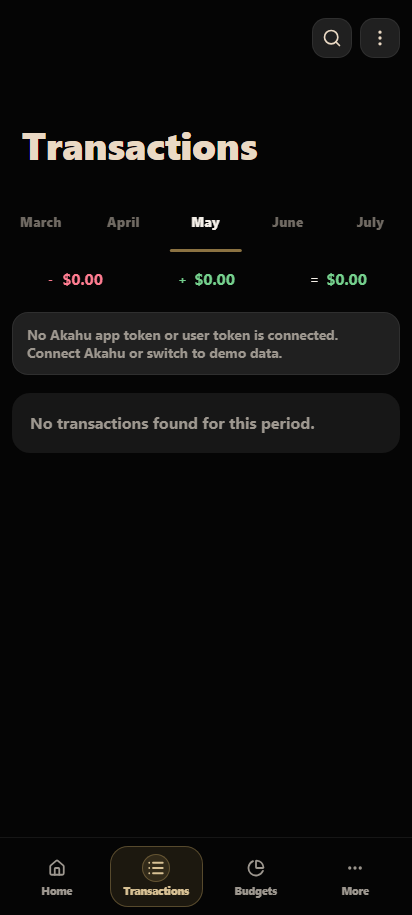
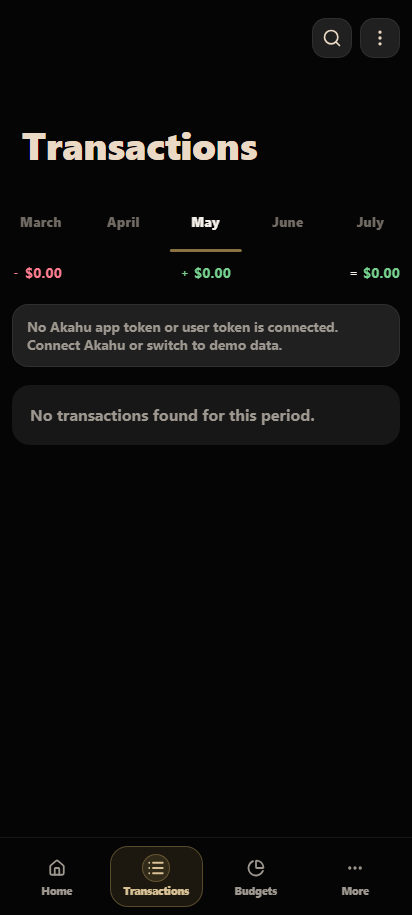
Updated transaction summary UI
Moved the summary up with margin: -4px 12px 0.
Changed mobile layout from equal grid columns to a content-sized flex row with space-between.
Reduced visual weight from 760 to 680.
Reduced the symbol size to 0.74rem.
Changed value size to clamp(0.8rem, 3.6vw, 0.9rem).
Added ellipsis fallback for long values so they do not collide or wrap badly.

Changed region(s): [[0.0291, 0.2754, 0.9612, 0.4896]]

diff --git a/app/globals.css b/app/globals.css
@@ -4560,9 +4560,12 @@ body {
   }
 
   .transaction-month-summary {
-    margin-inline: 12px;
-    gap: 8px;
-    min-height: 34px;
+    display: flex;
+    align-items: center;
+    justify-content: space-between;
+    margin: -4px 12px 0;
+    gap: clamp(6px, 2vw, 10px);
+    min-height: 30px;
     border: 0;
     border-radius: 0;
     padding: 0;
@@ -4571,15 +4574,25 @@ body {
 
   .transaction-month-metric {
     display: flex;
+    flex: 0 1 auto;
     min-height: 0;
     align-items: center;
     justify-content: center;
-    gap: 7px;
+    gap: 5px;
+    min-width: 0;
     border: 0;
     border-radius: 0;
-    padding: 0 4px;
+    padding: 0;
     background: transparent;
     box-shadow: none;
+  }
+
+  .transaction-month-metric.out {
+    justify-content: flex-start;
+  }
+
+  .transaction-month-metric.net {
+    justify-content: flex-end;
   }
 
   .transaction-month-metric-label {
@@ -4593,16 +4606,22 @@ body {
 
   .transaction-month-metric-symbol {
     display: inline-flex;
-    min-width: 10px;
+    flex: 0 0 auto;
+    min-width: 8px;
     justify-content: center;
     color: var(--muted);
-    font-size: 0.82rem;
-    font-weight: 760;
+    font-size: 0.74rem;
+    font-weight: 680;
     line-height: 1;
   }
 
   .transaction-month-metric strong {
-    font-size: 0.98rem;
+    min-width: 0;
+    overflow: hidden;
+    font-size: clamp(0.8rem, 3.6vw, 0.9rem);
+    font-weight: 680;
+    text-overflow: ellipsis;
+    white-space: nowrap;
   }
 
   .transaction-list-layout,